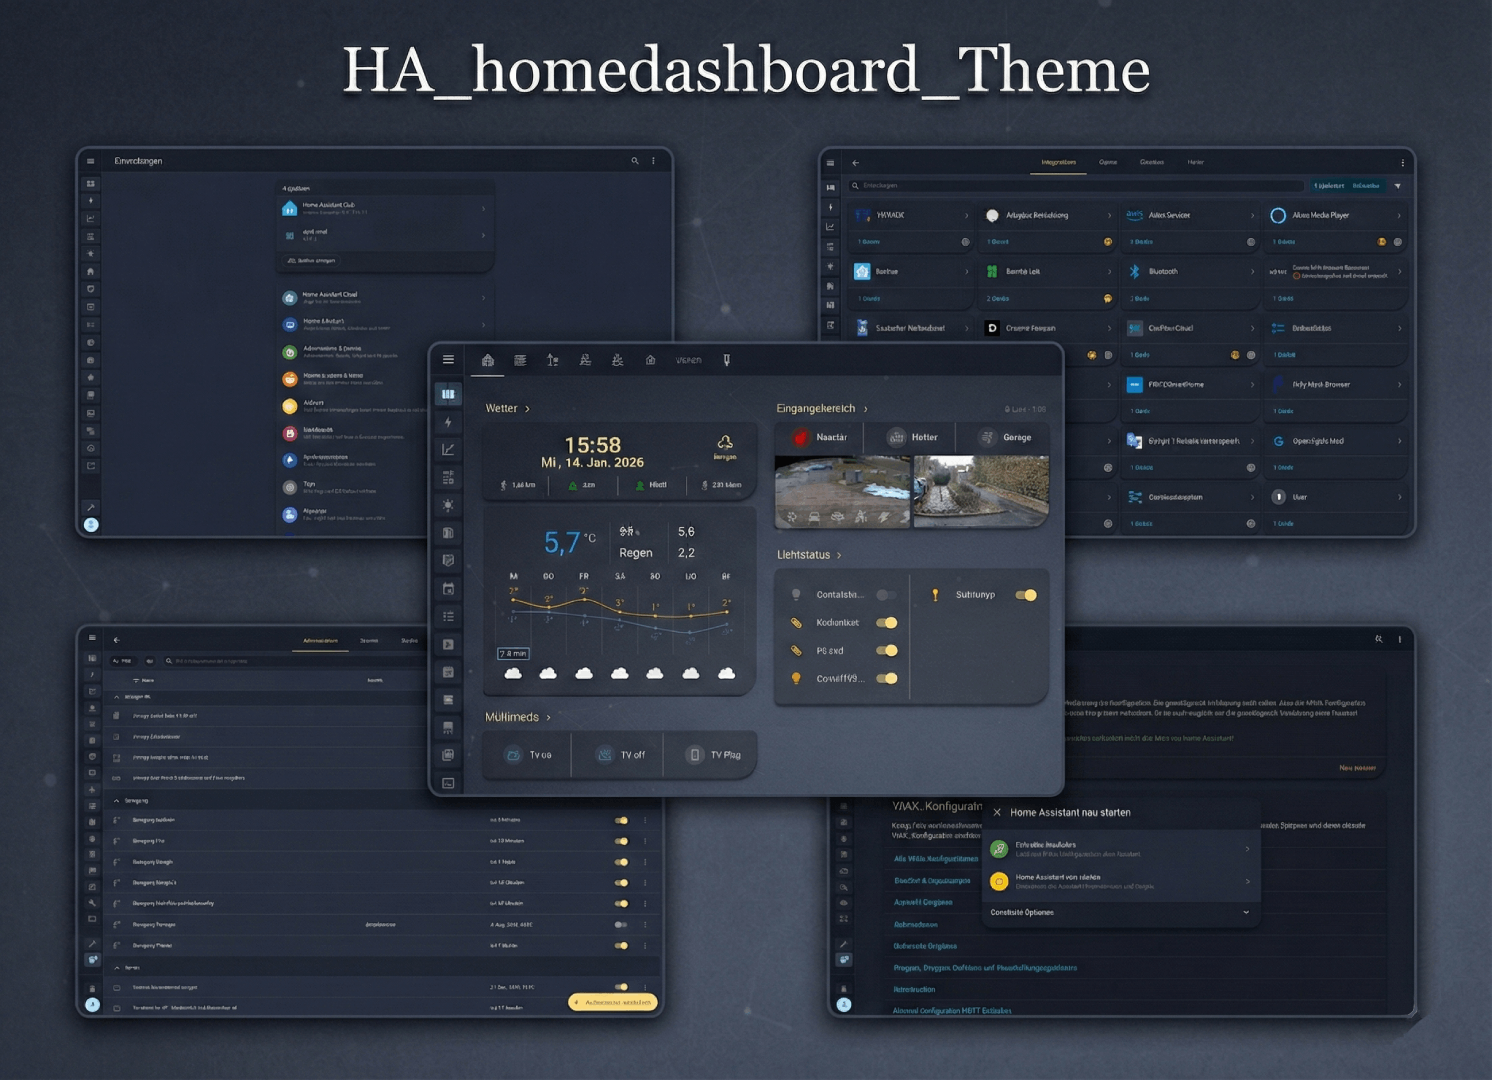
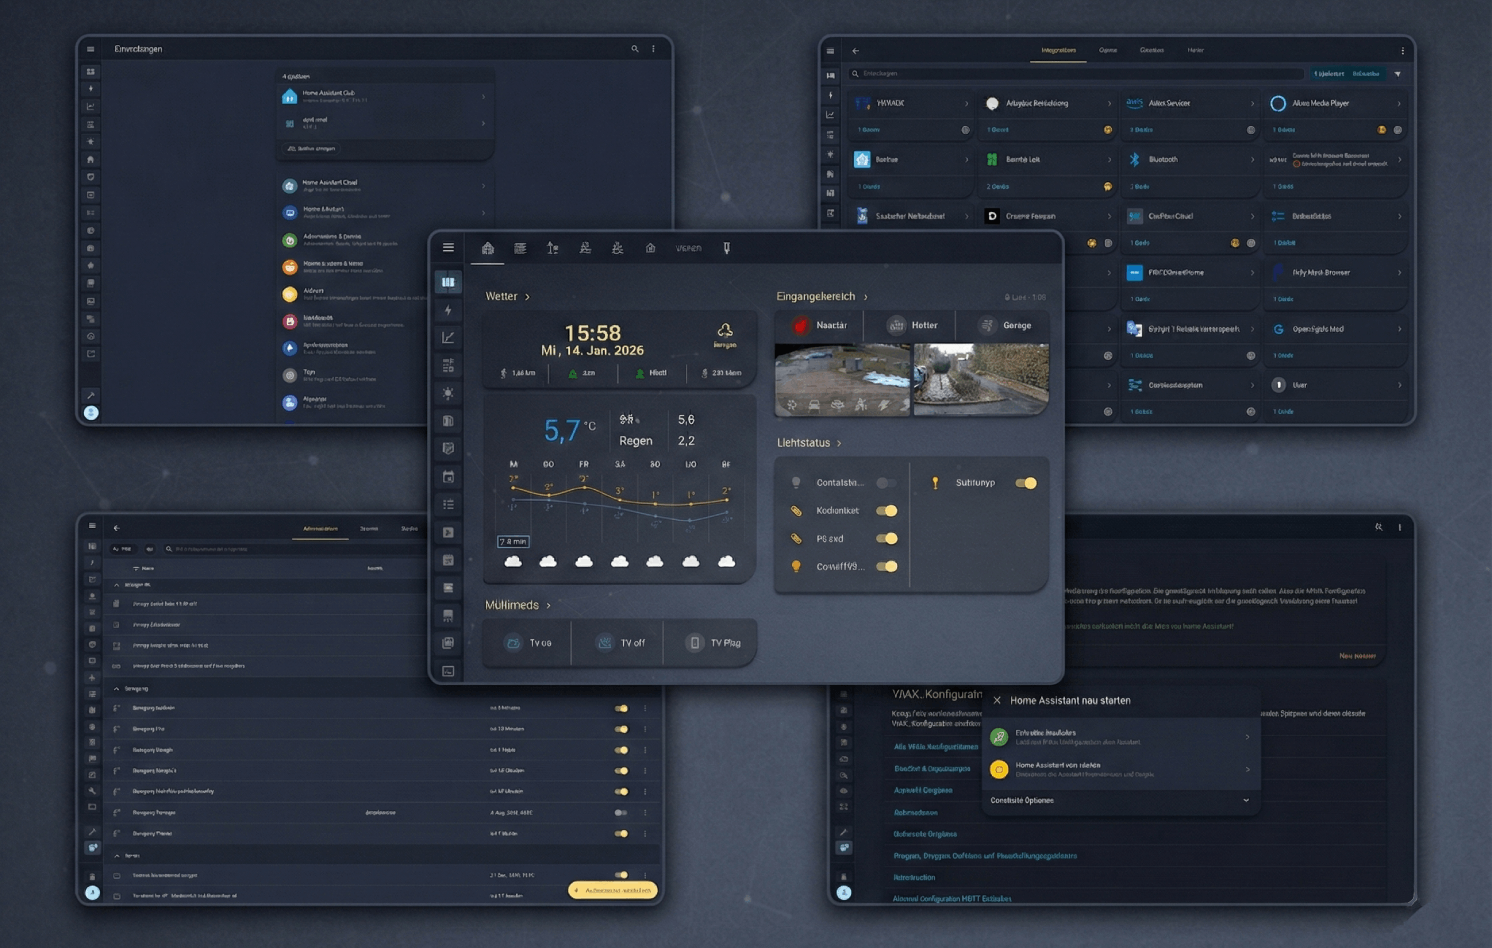
v.1.0.6

diff --git a/docs/README.md b/docs/README.md
@@ -12,7 +12,7 @@ Das Dashboard ist für die Tabletansicht angepasst. Es sollte nach Möglichkeit 
 
 **Wenn euch das Dashboard gefällt, gebt ihm bitte einen Stern ⭐ auf GitHub, danke. 🤗**
 
-<img width="90%" alt="HA_homedashboard" src="https://raw.githubusercontent.com/jayjojayson/HA_homedashboard/main/docs/images/HA_homedashboard_dashboard.png" />
+<img width="85%" alt="HA_homedashboard" src="https://raw.githubusercontent.com/jayjojayson/HA_homedashboard/main/docs/images/HA_homedashboard_dashboard.png" />
 
 ---
 
@@ -32,8 +32,8 @@ Das Dashboard ist für die Tabletansicht angepasst. Es sollte nach Möglichkeit 
 Alles übersichtlich strukturiert, so dass ihr die gewünschten Elemente einfach kopieren könnt. Es sind alle YAML-Dateien pro Karte aufgeführt und den entsprechenden Seiten oder Unterseiten zugeordnet. 
 Schaut am besten den jeweiligen Screenshot der Seite im Ordner/Unterordner an und ihr könnt schnell die enstprechende Card zuordnen bzw. in der Ordnerstruktur finden. Ihr findet dort auch die yaml der kompletten Seiten.
 
-#
-# 📖 Features
+
+## 📖 Features
 
 - **📣 HA-Topmenü/Header ein-/ausblenden (Button-Action)  [(optional)](https://jayjojayson.github.io/HA_homedashboard/#/Custom_Cards)**
 - **📣 particles Background ein-/ausblenden (Button-Action)  [(optional)](https://jayjojayson.github.io/HA_homedashboard/#/Custom_Cards)**
@@ -52,8 +52,8 @@ Schaut am besten den jeweiligen Screenshot der Seite im Ordner/Unterordner an un
 
 ...coming soon
 
-#
-# ✔ Voraussetzungen
+
+## ✔ Voraussetzungen
 
 Folgende Cards müssen über HACS installiert sein, dass im Anschluss euer kopierter Code funktioniert.
 Welche HACS card ihr letztendlich benötigt, seht ihr auch in meinen jeweils erstellten Cards.
@@ -125,8 +125,6 @@ Welche HACS card ihr letztendlich benötigt, seht ihr auch in meinen jeweils ers
 Es müssen ein paar Sensoren in der configuration.yaml angelegt werden. Das ist notwendig, um Temperatur-, Luft-, und Solarwerte nach Zustand einzufärben.
 Ihr findet die Sensoren unter sensoren.yaml. Dort den entsprechenden Sensor herauskopieren, bei euch in die config.yaml eintragen und HA (schnell) neu laden.
 
-#
-# 📥 Installation
 
 ## ➡ Installation über HACS
 - Gehe zu Hacs und füge das Respository dort ein. 
